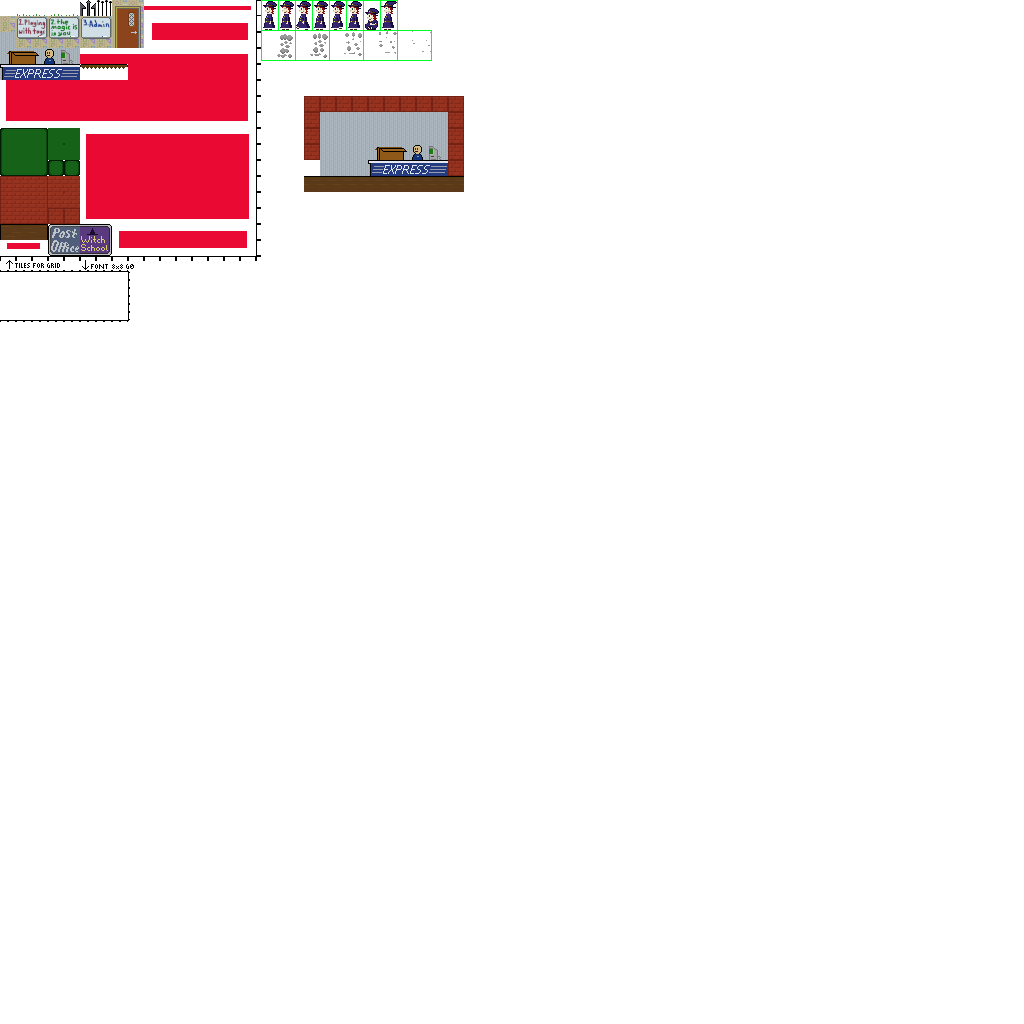
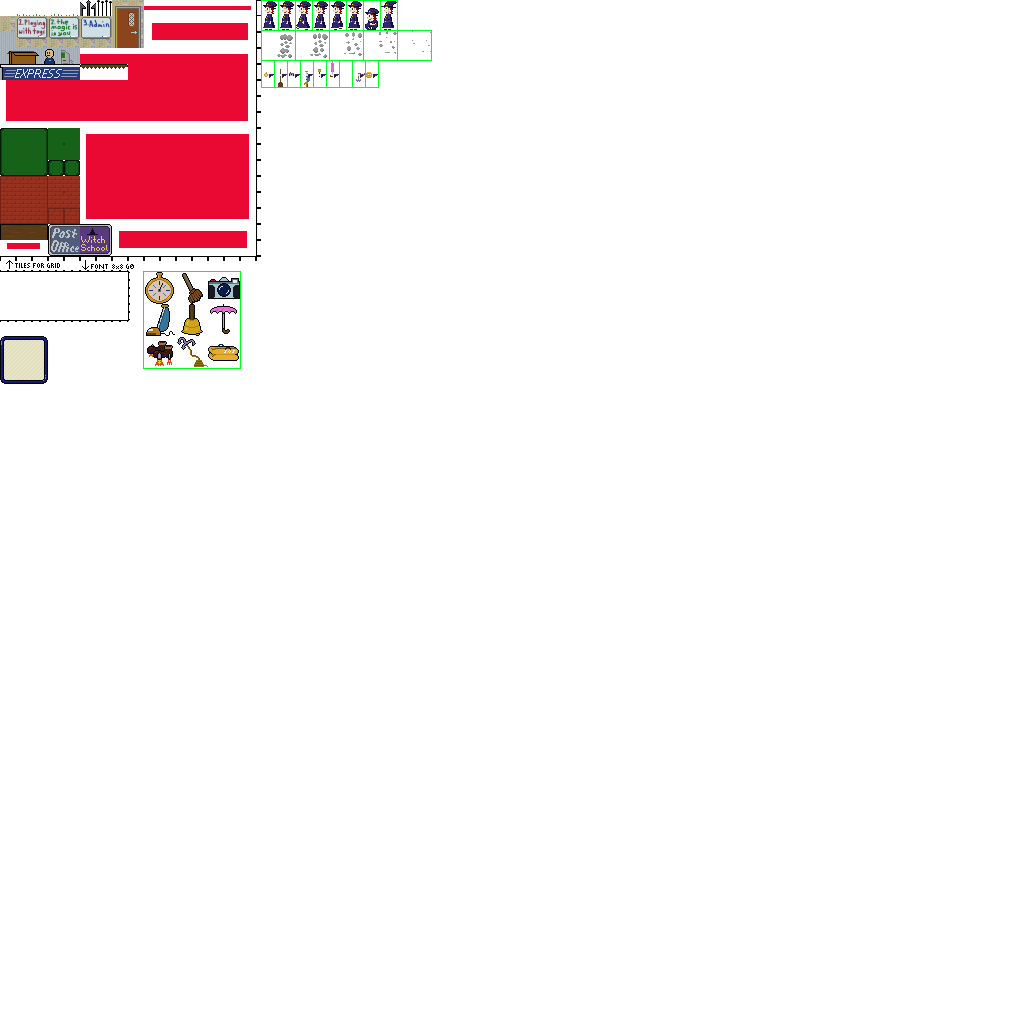
equip item

Changed region(s): [[0.25, 0.0625, 0.4688, 0.1875], [0.125, 0.25, 0.25, 0.375], [0.0, 0.3125, 0.0625, 0.375]]

diff --git a/src/www/js/game/menu/PauseMenu.js b/src/www/js/game/menu/PauseMenu.js
@@ -1,0 +1,127 @@
+/* PauseMenu.js
+ */
+ 
+import { Game } from "../Game.js";
+import { DataService } from "../DataService.js";
+import { InputBtn } from "../core/InputManager.js";
+
+const TILESIZE = 16;
+const HIGHLIGHT_PERIOD =     0.800;
+const HIGHLIGHT_DUTY_CYCLE = 0.600;
+ 
+export class PauseMenu {
+  static getDependencies() {
+    return [Game, DataService];
+  }
+  constructor(game, dataService) {
+    this.game = game;
+    this.dataService = dataService;
+    
+    this.onHold = null; // Owner may set to another Menu waiting for this one to complete. Don't touch.
+    
+    this.pvinput = 0;
+    this.highlightClock = 0;
+  }
+  
+  dismissing() {
+  }
+  
+  update(elapsed, inputState) {
+    if (inputState !== this.pvinput) {
+      const dpad = (btnid, dx, dy) => {
+        if ((inputState & btnid) && !(this.pvinput & btnid)) this.onMotion(dx, dy);
+      };
+      dpad(InputBtn.LEFT, -1, 0);
+      dpad(InputBtn.RIGHT, 1, 0);
+      dpad(InputBtn.UP, 0, -1);
+      dpad(InputBtn.DOWN, 0, 1);
+      // It's tempting to dismiss on A or B too, but don't -- the Hero will pick it up as a jump or action trigger.
+      // Not that that problem couldn't be solved, but hey, it doesn't need to.
+      this.pvinput = inputState;
+    }
+    if ((this.highlightClock += elapsed) >= HIGHLIGHT_PERIOD) {
+      this.highlightClock -= HIGHLIGHT_PERIOD;
+    }
+  }
+  
+  onMotion(dx, dy) {
+    let x = this.game.selectedItem % 3;
+    let y = Math.floor(this.game.selectedItem / 3);
+    x += dx; if (x < 0) x = 2; else if (x >= 3) x = 0;
+    y += dy; if (y < 0) y = 2; else if (y >= 3) y = 0;
+    this.game.selectedItem = y * 3 + x;
+    this.highlightClock = 0; // reset highlight phase, make sure it's visible as it moves
+    //TODO sound effect
+  }
+  
+  /* Caller draws the scene first, and no framing or anything before calling us.
+   */
+  render(context, canvas) {
+    const graphics = this.dataService.getResourceSync("image", 1);
+    if (!graphics) return;
+    
+    const dstcolc = 7;
+    const dstrowc = 7;
+    const dstw = dstcolc * TILESIZE;
+    const dsth = dstrowc * TILESIZE;
+    const dstx = (canvas.width >> 1) - (dstw >> 1);
+    const dsty = (canvas.height >> 1) - (dsth >> 1);
+    const iconmargin = 6;
+    const iconspace = 2;
+    
+    const frameTile = (dstcol, dstrow, srccol, srcrow) => {
+      context.drawImage(graphics,
+        srccol * TILESIZE,
+        336 + srcrow * TILESIZE,
+        TILESIZE, TILESIZE,
+        dstx + dstcol * TILESIZE,
+        dsty + dstrow * TILESIZE,
+        TILESIZE, TILESIZE
+      );
+    };
+    for (let col=1; col<dstcolc-1; col++) {
+      frameTile(col, 0, 1, 0);
+      frameTile(col, dstrowc-1, 1, 2);
+      for (let row=1; row<dstrowc-1; row++) {
+        frameTile(col, row, 1, 1);
+      }
+    }
+    for (let row=1; row<dstrowc-1; row++) {
+      frameTile(0, row, 0, 1);
+      frameTile(dstcolc-1, row, 2, 1);
+    }
+    frameTile(0, 0, 0, 0);
+    frameTile(dstcolc-1, 0, 2, 0);
+    frameTile(0, dstrowc-1, 0, 2);
+    frameTile(dstcolc-1, dstrowc-1, 2, 2);
+    
+    const srcx0 = 144;
+    const srcy0 = 272;
+    const itemTile = (col, row) => {
+      context.drawImage(graphics,
+        srcx0 + col * TILESIZE * 2,
+        srcy0 + row * TILESIZE * 2,
+        TILESIZE * 2, TILESIZE * 2,
+        dstx + iconmargin + col * (TILESIZE * 2 + iconspace),
+        dsty + iconmargin + row * (TILESIZE * 2 + iconspace),
+        TILESIZE * 2, TILESIZE * 2
+      );
+    };
+    for (let row=0, itemid=0; row<3; row++) {
+      for (let col=0; col<3; col++, itemid++) {
+        if ((this.game.selectedItem === itemid) && (this.highlightClock <= HIGHLIGHT_DUTY_CYCLE)) {
+          // Highlight, even if we don't have it.
+          context.fillStyle = "#080";
+          context.fillRect(
+            dstx + iconmargin + col * (TILESIZE * 2 + iconspace) - 1,
+            dsty + iconmargin + row * (TILESIZE * 2 + iconspace) - 1,
+            TILESIZE * 2 + 2, TILESIZE * 2 + 2
+          );
+        }
+        if (this.game.inventory[itemid]) {
+          itemTile(col, row);
+        }
+      }
+    }
+  }
+}

diff --git a/src/www/js/game/Game.js b/src/www/js/game/Game.js
@@ -4,9 +4,10 @@
  */
  
 import { Scene, SceneFactory } from "./Scene.js";
-import { InputManager } from "../core/InputManager.js";
-import { ImageService } from "../core/ImageService.js";
+import { InputManager, InputBtn } from "../core/InputManager.js";
 import { DataService } from "./DataService.js";
+import { PauseMenu } from "./menu/PauseMenu.js";
+import { Injector } from "../core/Injector.js";
  
 /* The ideal update timing is 16.666 ms.
  * High-frequency monitors may run considerably shorter, and we should skip frames to accomodate, instead of burning the CPU.
@@ -18,14 +19,14 @@ const MAXIMUM_UPDATE_TIME_MS = 25;
  
 export class Game {
   static getDependencies() {
-    return [Window, SceneFactory, InputManager, ImageService, DataService];
+    return [Window, SceneFactory, InputManager, DataService, Injector];
   }
-  constructor(window, sceneFactory, inputManager, imageService, dataService) {
+  constructor(window, sceneFactory, inputManager, dataService, injector) {
     this.window = window;
     this.sceneFactory = sceneFactory;
     this.inputManager = inputManager;
-    this.imageService = imageService;
     this.dataService = dataService;
+    this.injector = injector;
     
     this.render = () => {}; // RootUi should set.
     
@@ -36,6 +37,10 @@ export class Game {
     this.lastFrameTime = 0;
     this.scene = null;
     this.graphics = null; // Image; required if loaded.
+    this.pvinput = 0;
+    this.menu = null;
+    this.selectedItem = 4; // 0..9. 4=bell
+    this.inventory = [true, true, true, true, true, true, true, true, true]; // indexed by itemid
   }
   
   /* Returns a Promise that resolves when our content is all loaded and ready to go.
@@ -44,10 +49,9 @@ export class Game {
   load() {
     if (this.loadFailure) return Promise.reject(this.loadFailure);
     if (this.loaded) return Promise.resolve();
-    return this.imageService.load(1)
-      .then((graphics) => this.graphics = graphics)
-      .then(() => this.dataService.load())
+    return this.dataService.load()
       .then(() => {
+        this.graphics = this.dataService.getResourceSync("image", 1);
         this.loaded = true;
         this.paused = true;
       }).catch(e => {
@@ -97,11 +101,49 @@ export class Game {
   }
   
   updateModel(elapsed) {
-    if (!this.scene) {
-      this.scene = this.sceneFactory.begin(1);
-    }
+    
     const inputState = this.inputManager.update();
-    this.scene.update(elapsed, inputState);
+    if (inputState !== this.pvinput) {
+      if ((inputState & InputBtn.PAUSE) && !(this.pvinput & InputBtn.PAUSE)) {
+        this.toggleMenu();
+      }
+      this.pvinput = inputState;
+    }
+    
+    if (this.menu) {
+      this.menu.update(elapsed, inputState);
+    } else {
+      if (!this.scene) {
+        this.scene = this.sceneFactory.begin(1);
+      }
+      this.scene.update(elapsed, inputState);
+    }
+  }
+  
+  toggleMenu() {
+    if (this.menu) {
+      this.menu.dismissing();
+      this.menu = this.menu.onHold;
+    } else {
+      this.menu = this.injector.get(PauseMenu);
+    }
+  }
+  
+  dismissMenu(controller) {
+    let parent = null;
+    let menu = this.menu;
+    while (menu) {
+      if (menu === controller) break;
+      parent = menu;
+      menu = menu.onHold;
+    }
+    if (!menu) return;
+    if (parent) {
+      parent.onHold = controller.onHold;
+    } else {
+      this.menu = null;
+    }
+    controller.dismissing();
   }
 }
 

diff --git a/src/www/js/game/sprites/HeroSprite.js b/src/www/js/game/sprites/HeroSprite.js
@@ -362,4 +362,29 @@ export class HeroSprite extends Sprite {
   
   actionUpdate(elapsed) {
   }
+  
+  /* Render.
+   *************************************************************************/
+   
+  render(context, dstx, dsty) {
+  
+    //TODO Boots need to be a whole new set of images when equipped, i think.
+    //TODO Broom while in use will surely be a whole different thing.
+    //TODO And all the rest.
+    
+    /* Most times carrying an item possessed but not currently in use, it's a second decal behind the first.
+     * These are arranged in a uniform row, all the same size.
+     * Don't draw it if ducking, just don't show the item.
+     */
+    if (!this.ducking) {
+      if (this.scene.game.inventory[this.scene.game.selectedItem]) {
+        let idstx = dstx, idsty = dsty + 1;
+        if (this.flop) idstx += 11;
+        else idstx -= 7;
+        context.drawDecal(idstx, idsty, 262 + this.scene.game.selectedItem * 13, 61, 12, 26, this.flop);
+      }
+    }
+    
+    context.drawDecal(dstx, dsty, this.srcx, this.srcy, this.vw, this.vh, this.flop);
+  }
 }

diff --git a/src/www/js/ui/CanvasUi.js b/src/www/js/ui/CanvasUi.js
@@ -17,6 +17,19 @@ export class CanvasUi {
     this.element.width = 320;
     this.element.height = 160;
     this.context = this.element.getContext("2d");
+    this.context.drawDecal = (dstx, dsty, srcx, srcy, w, h, flop) => this.drawDecal(dstx, dsty, srcx, srcy, w, h, flop);
+  }
+  
+  drawDecal(dstx, dsty, srcx, srcy, w, h, flop) {
+    if (flop) {
+      this.context.save();
+      this.context.translate(dstx, dsty);
+      this.context.scale(-1, 1);
+      this.context.drawImage(this.game.graphics, srcx, srcy, w, h, -w, 0, w, h);
+      this.context.restore();
+    } else {
+      this.context.drawImage(this.game.graphics, srcx, srcy, w, h, dstx, dsty, w, h);
+    }
   }
   
   renderNow() {
@@ -46,6 +59,10 @@ export class CanvasUi {
     } else {
       this.context.fillStyle = "#888";
       this.context.fillRect(0, 0, this.element.width, this.element.height);
+    }
+    
+    if (this.game.menu) {
+      this.game.menu.render(this.context, this.element);
     }
     
     if (this.game.paused) {

diff --git a/src/www/js/game/DataService.js b/src/www/js/game/DataService.js
@@ -1,8 +1,4 @@
 /* DataService.js
- * Eventually we should have the data in a single archive, preferably inlined in index.html.
- * When that happens, DataService will be responsible for decoding it and storing the live objects.
- * Right now, we read everything piecemeal from the source directory (and Images are something else).
- * We're essentially the same thing as the editor's DataService. That shouldn't be the case before we get to prod.
  */
  
 import { Grid } from "./Grid.js";
@@ -48,6 +44,13 @@ export class DataService {
       this.files.push({
         tid, rid,
         serial: element.innerText,
+      });
+    }
+    for (const element of this.window.document.querySelectorAll("img[data-rid]")) {
+      this.files.push({
+        tid: "image",
+        rid: +element.getAttribute("data-rid"),
+        object: element,
       });
     }
     this.loaded = true;

diff --git a/README.md b/README.md
@@ -11,7 +11,7 @@ https://github.com/aksommerville/too-heavy
 - By 15 December
 - - [x] One-way platforms.
 - - [x] Static hazards.
-- - [ ] UI to select item.
+- - [x] UI to select item.
 - - [x] Map editor: scrolling.
 - - [ ] Spawn points and doors.
 - By 22 December
@@ -28,6 +28,7 @@ https://github.com/aksommerville/too-heavy
 - - [ ] Camera. Save and restore state. But not including switches.
 - - [ ] Speed Boost.
 - - [ ] Parachute.
+- - [ ] Vacuum cleaner. Stick to walls and ceilings.
 - - [ ] Treasure anti-chests.
 - By 1 January
 - - [ ] Final maps.
